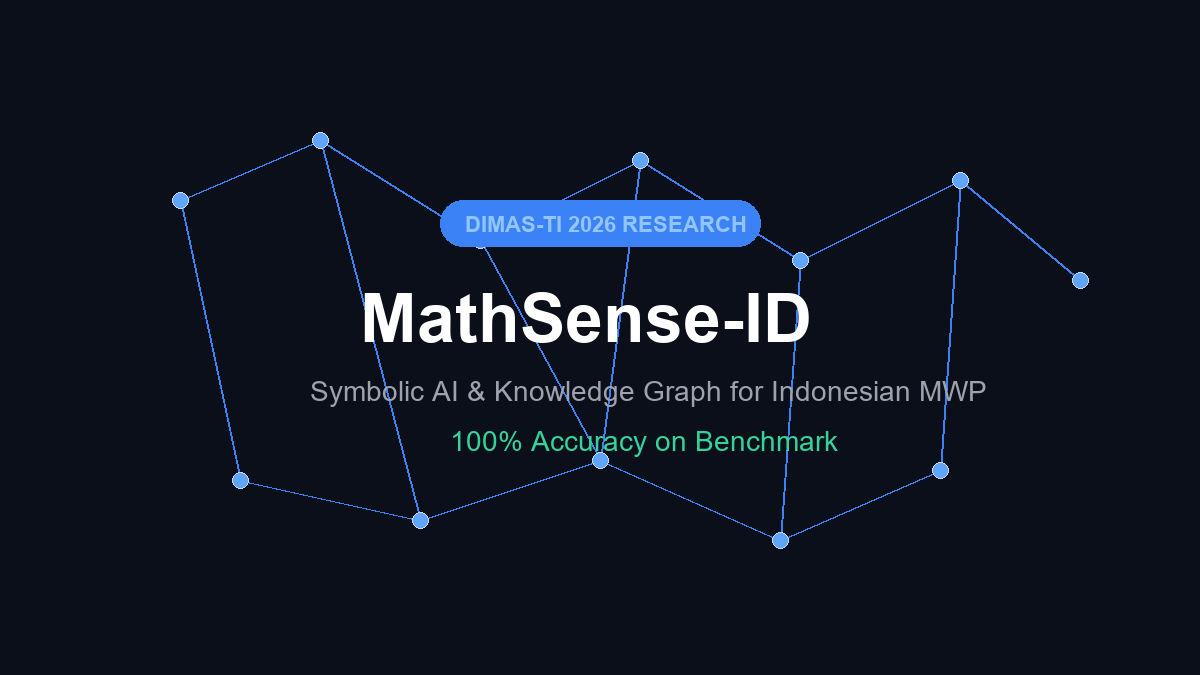
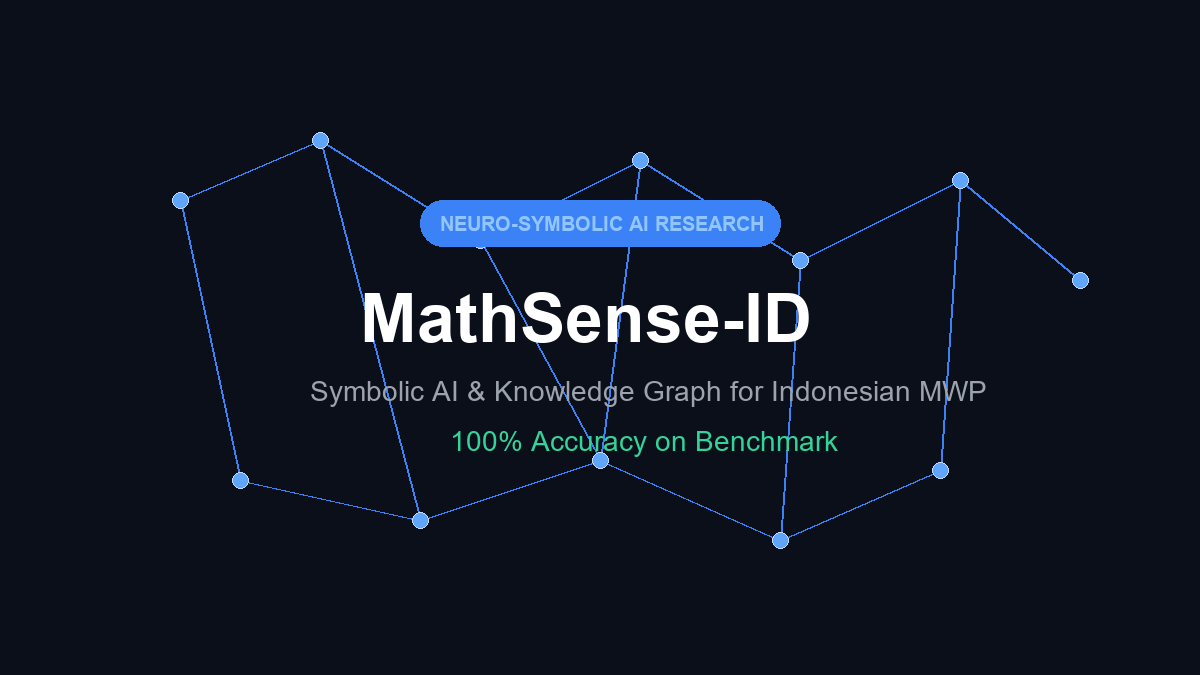
chore: remove DIMAS-TI references across portfolio pages and assets

Changed region(s): [[0.3392, 0.28, 0.6475, 0.3733]]

diff --git a/project-kai-reviewbombing.html b/project-kai-reviewbombing.html
@@ -3,8 +3,8 @@
 <head>
   <meta charset="utf-8"/>
   <meta name="viewport" content="width=device-width, initial-scale=1.0"/>
-  <title>Deteksi Review Bombing KAI Access — DIMAS-TI 2026 | Irfan Fatkhurrizal</title>
-  <meta name="description" content="Deteksi Review Bombing dan Anomali Multi-View pada Ulasan Layanan Transportasi Publik KAI Access — Riset Data Mining & Machine Learning DIMAS-TI 2026."/>
+  <title>Deteksi Review Bombing KAI Access | Irfan Fatkhurrizal</title>
+  <meta name="description" content="Deteksi Review Bombing dan Anomali Multi-View pada Ulasan Layanan Transportasi Publik KAI Access — Riset Data Mining & Machine Learning."/>
   <link rel="icon" type="image/jpeg" href="favicon.jpg"/>
   
   <link rel="preconnect" href="https://fonts.googleapis.com"/>
@@ -13,7 +13,7 @@
   <link href="https://fonts.googleapis.com/css2?family=Material+Symbols+Outlined:wght,FILL@100..700,0..1&display=swap" rel="stylesheet"/>
 
   <meta property="og:type" content="article"/>
-  <meta property="og:title" content="Deteksi Review Bombing KAI Access — DIMAS-TI 2026 | Irfan Fatkhurrizal"/>
+  <meta property="og:title" content="Deteksi Review Bombing KAI Access | Irfan Fatkhurrizal"/>
   <meta property="og:description" content="Integrasi Proses Stokastik Goh-Barabási, Leksikon Fungsional Kereta Api, dan Graf Modularitas Louvain pada 15.000+ Ulasan KAI Access."/>
   <meta property="og:image" content="kai-reviewbombing-opt.png"/>
 
@@ -67,7 +67,7 @@
         <span class="material-symbols-outlined">arrow_back</span>
         Back to Projects
       </a>
-      <span class="case-hero__category text-label-caps reveal">Data Mining &amp; Machine Learning — DIMAS-TI 2026 Research</span>
+      <span class="case-hero__category text-label-caps reveal">Data Mining &amp; Machine Learning Research</span>
       <h1 class="case-hero__title text-display-lg-mobile reveal reveal-delay-1">Deteksi Review Bombing KAI Access.</h1>
       <p class="case-hero__subtitle text-body-lg reveal reveal-delay-2">
         Riset penambangan data multi-view untuk mendeteksi serangan <em>review bombing</em> dan lonjakan sentimen anomali pada aplikasi Access by KAI melalui integrasi proses stokastik, pemodelan graf, dan analisis leksikon domain transportasi.
@@ -85,8 +85,8 @@
               <span class="case-overview__meta-value text-body-md">Lead Researcher &amp; Data Mining Specialist</span>
             </li>
             <li class="case-overview__meta-item">
-              <span class="case-overview__meta-label text-mono-label">Kompetisi</span>
-              <span class="case-overview__meta-value text-body-md">DIMAS-TI 2026 (Divisi Penambangan Data)</span>
+              <span class="case-overview__meta-label text-mono-label">Fokus Riset</span>
+              <span class="case-overview__meta-value text-body-md">Data Mining &amp; Anomaly Detection</span>
             </li>
             <li class="case-overview__meta-item">
               <span class="case-overview__meta-label text-mono-label">Publikasi</span>

diff --git a/index.html b/index.html
@@ -163,7 +163,7 @@
           </div>
         </div>
 
-        <!-- 3. Review Bombing KAI Access (DIMAS-TI 2026) -->
+        <!-- 3. Review Bombing KAI Access -->
         <div class="project-card card--span-8 reveal reveal-delay-1" id="card-kai">
           <a href="project-kai-reviewbombing.html" class="project-card__image-wrapper project-card__image-wrapper--16x9" style="display: block;">
             <div class="project-card__image" style="background-image: url('kai-reviewbombing-opt.png'); background-position: center;"></div>
@@ -171,7 +171,7 @@
           <div class="project-card__content">
             <div>
               <div style="display: flex; align-items: center; justify-content: space-between; flex-wrap: wrap; margin-bottom: 8px;">
-                <span class="project-card__category text-label-caps" style="margin-bottom: 0;">Data Mining &amp; NLP — DIMAS-TI 2026</span>
+                <span class="project-card__category text-label-caps" style="margin-bottom: 0;">Data Mining &amp; Machine Learning</span>
                 <span style="font-size: 11px; font-weight: 600; color: var(--secondary);">IEEE Paper</span>
               </div>
               <h3 class="project-card__title text-headline-sm">
@@ -202,7 +202,7 @@
           </div>
         </div>
 
-        <!-- 4. MathSense-ID (DIMAS-TI 2026) -->
+        <!-- 4. MathSense-ID -->
         <div class="project-card card--span-4 reveal reveal-delay-2" id="card-mathsense">
           <a href="project-mathsense.html" class="project-card__image-wrapper project-card__image-wrapper--4x5" style="display: block;">
             <div class="project-card__image" style="background-image: url('mathsense-banner.png'); background-position: center;"></div>

diff --git a/project-mathsense.html b/project-mathsense.html
@@ -67,7 +67,7 @@
         <span class="material-symbols-outlined">arrow_back</span>
         Back to Projects
       </a>
-      <span class="case-hero__category text-label-caps reveal">Symbolic AI &amp; NLP — DIMAS-TI 2026 Research Paper</span>
+      <span class="case-hero__category text-label-caps reveal">Symbolic AI &amp; NLP Research Paper</span>
       <h1 class="case-hero__title text-display-lg-mobile reveal reveal-delay-1">MathSense-ID.</h1>
       <p class="case-hero__subtitle text-body-lg reveal reveal-delay-2">
         Sistem penalaran simbolik terotomasi untuk menyelesaikan Soal Cerita Matematika (*Math Word Problems*) berbahasa Indonesia dengan akurasi 100% pada benchmark test set melalui integrasi Rule-based NER, Graf Pengetahuan, dan Equation Builder deterministik.
@@ -90,7 +90,7 @@
             </li>
             <li class="case-overview__meta-item">
               <span class="case-overview__meta-label text-mono-label">Publikasi</span>
-              <span class="case-overview__meta-value text-body-md">Makalah 10 Halaman Format DIMAS-TI 2026</span>
+              <span class="case-overview__meta-value text-body-md">Naskah Ilmiah 10 Halaman Terpublikasi</span>
             </li>
             <li class="case-overview__meta-item">
               <span class="case-overview__meta-label text-mono-label">Benchmark Result</span>
